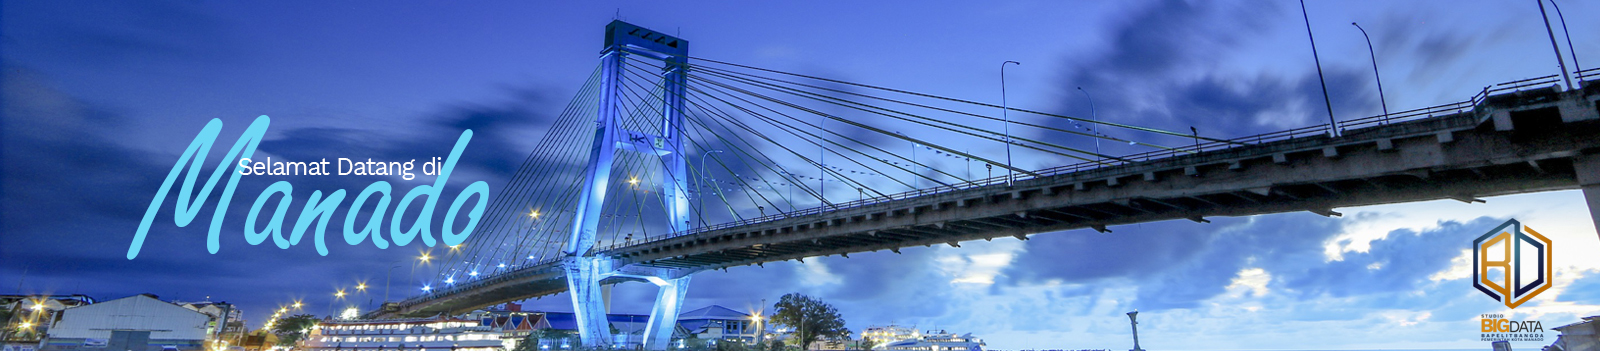
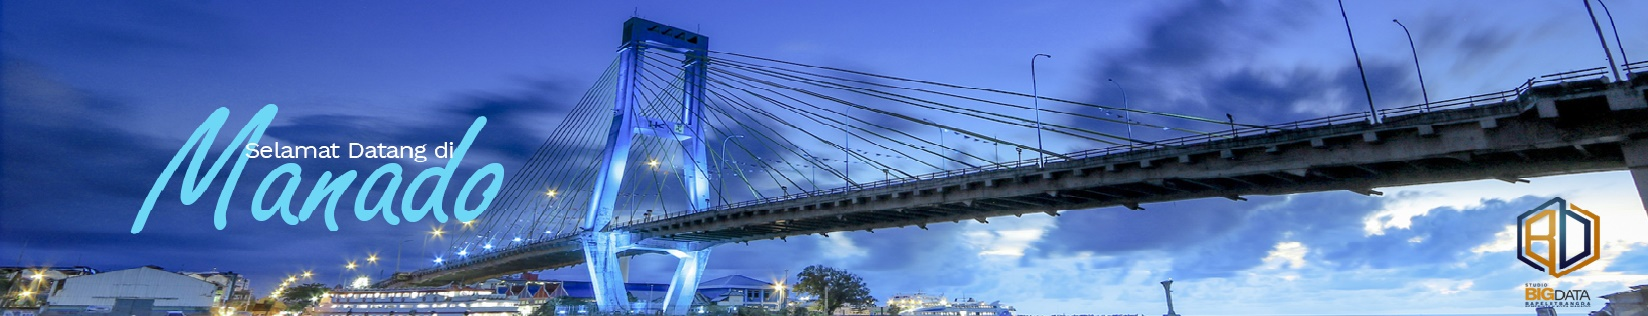
fix modal

diff --git a/public/munter/css/style.css b/public/munter/css/style.css
@@ -211,7 +211,7 @@ body {
 	background-position: center center;
 	background-repeat: no-repeat;
 	padding-bottom: 65px;
-	padding-top: 50px;
+	padding-top: 65px;
 	text-align: center;
 }
 
@@ -232,13 +232,15 @@ body {
 	background-position: center center;
 }
 
-#slide-1 h1 {
-	padding-top: 150px;
+.shadow {
+	margin-top:40px; 
+	padding:5px; 
+	opacity:1;
 }
 
 .container-custom {
 	background: black;
-	margin-top: 400px;
+	margin-top: 500px;
 }
 
 .slide1container {
@@ -654,12 +656,13 @@ div#slider figure {
 }
 
 .logobigdakom {
-	content : url('../images/logo_v3.png');
+	content : url('../images/logo_v3_landscape.png');
 	float:left; 
-	width: 6vw; 
-	height:10vh; 
-	position:absolute; 
-	margin-left:80px;
+	width: 12vw; 
+	height:12vh; 
+	position:absolute;
+	margin-left:100px;
+	margin-top:-13px;
 }
 
 .logomdokota {
@@ -667,12 +670,11 @@ div#slider figure {
 	width: 5vw; 
 	height:10vh; 
 	position:absolute; 
-	margin-top:2px;
+	margin-top:0px;
 }
 
 .icon1 {
 	content : url('../images/icon/icon1_glow.png');
-	content : url('../images/icon/icon1.png');
 	margin-top:-10px;
 	margin-left:25px;
 	width:12vw;
@@ -682,7 +684,6 @@ div#slider figure {
 
 .icon2 {
 	content : url('../images/icon/icon2_glow.png');
-	content : url('../images/icon/icon2.png');
 	margin-top:-10px;
 	margin-left:25px;
 	width:12vw;
@@ -692,7 +693,6 @@ div#slider figure {
 
 .icon3 {
 	content : url('../images/icon/icon3_glow.png');
-	content : url('../images/icon/icon3.png');
 	margin-top:-10px;
 	margin-left:25px;
 	width:12vw;
@@ -702,7 +702,6 @@ div#slider figure {
 
 .icon4 {
 	content : url('../images/icon/icon4_glow.png');
-	content : url('../images/icon/icon4.png');
 	margin-top:-10px;
 	margin-left:25px;
 	width:12vw;
@@ -712,7 +711,6 @@ div#slider figure {
 
 .icon5 {
 	content : url('../images/icon/icon5_glow.png');
-	content : url('../images/icon/icon5.png');
 	margin-top:-10px;
 	margin-left:25px;
 	width:12vw;
@@ -722,7 +720,6 @@ div#slider figure {
 
 .icon6 {
 	content : url('../images/icon/icon6_glow.png');
-	content : url('../images/icon/icon6.png');
 	margin-top:-10px;
 	margin-left:25px;
 	width:12vw;
@@ -732,7 +729,6 @@ div#slider figure {
 
 .icontematik {
 	content : url('../images/icon/tematik_glow.png');
-	content : url('../images/icon/tematik.png');
 	margin-top:-10px;
 	margin-left:25px;
 	width:12vw;
@@ -742,7 +738,6 @@ div#slider figure {
 
 .icondikomando {
 	content : url('../images/icon/dikomando_glow.png');
-	content : url('../images/icon/dikomando.png');
 	margin-top:-10px;
 	margin-left:25px;
 	width:12vw;
@@ -934,23 +929,33 @@ div#slider figure {
 .font-roboto {
   font-family: 'roboto condensed';
 }
-* {
-  box-sizing: border-box;
-}
+
+
 body {
   font-family: 'roboto condensed';
 }
 .modal {
-  position: fixed;
+  position: relative;
   top: 0;
   right: 0;
   bottom: 0;
   left: 0px;
   overflow: hidden;
 }
+
+@media (min-width: 1000px)/* The minimum width of the display area, such as a browser window*/
+{
+  .modal-dialog {
+      width: 1000px;
+  }
+}
+
 .modal-dialog {
   position: fixed;
-  margin: 0;
+  top: 0;
+  right: 0;
+  bottom: 0;
+  left: 0;
   width: 100%;
   height: 100%;
   padding: 0;
@@ -960,12 +965,13 @@ body {
   top: 0;
   right: 0;
   bottom: 0;
-  left: -768px;
+  left: 0;
   border: 2px solid #3c7dcf;
   border-radius: 0;
   width: 100vw;
   box-shadow: none;
 }
+
 .modal-header {
   position: absolute;
   top: 0;

diff --git a/resources/views/layouts/home.blade.php b/resources/views/layouts/home.blade.php
@@ -4,9 +4,9 @@
         @include('includes.head')
     </head>
     <body>
+		@include('content.dikomando')
 		
 		<div id="content">
-			@include('content.dikomando')
 		
 			@include('content.navbar')
 			@include('content.kotamanado')
@@ -14,6 +14,7 @@
 			@include('content.kecamatan.bunaken')
 			@include('content.kecamatan.bunakenkep')
 			@include('content.kecamatan.malalayang')
+			@include('content.kecamatan.mapanget')
 			
 			@yield('content')
 		</div>	

diff --git a/resources/views/content/kotamanado.blade.php b/resources/views/content/kotamanado.blade.php
@@ -4,7 +4,7 @@
 	<!-- === Slide 1 === -->
 	<div class="slide story" id="slide-1" data-slide="1">
 	
-		<div class="shadow"  style="margin-top:32px; padding:10px; opacity:1">
+		<div class="shadow">
 			<!-- Start WOWSlider.com BODY section --> <!-- add to the <body> of your page -->
 			<div id="wowslider-container1">
 				<div class="ws_images"><ul>

diff --git a/resources/views/content/navbar.blade.php b/resources/views/content/navbar.blade.php
@@ -32,5 +32,6 @@
 				
 			</div>
 		</div>
+		<br>
 	</div>
 	
